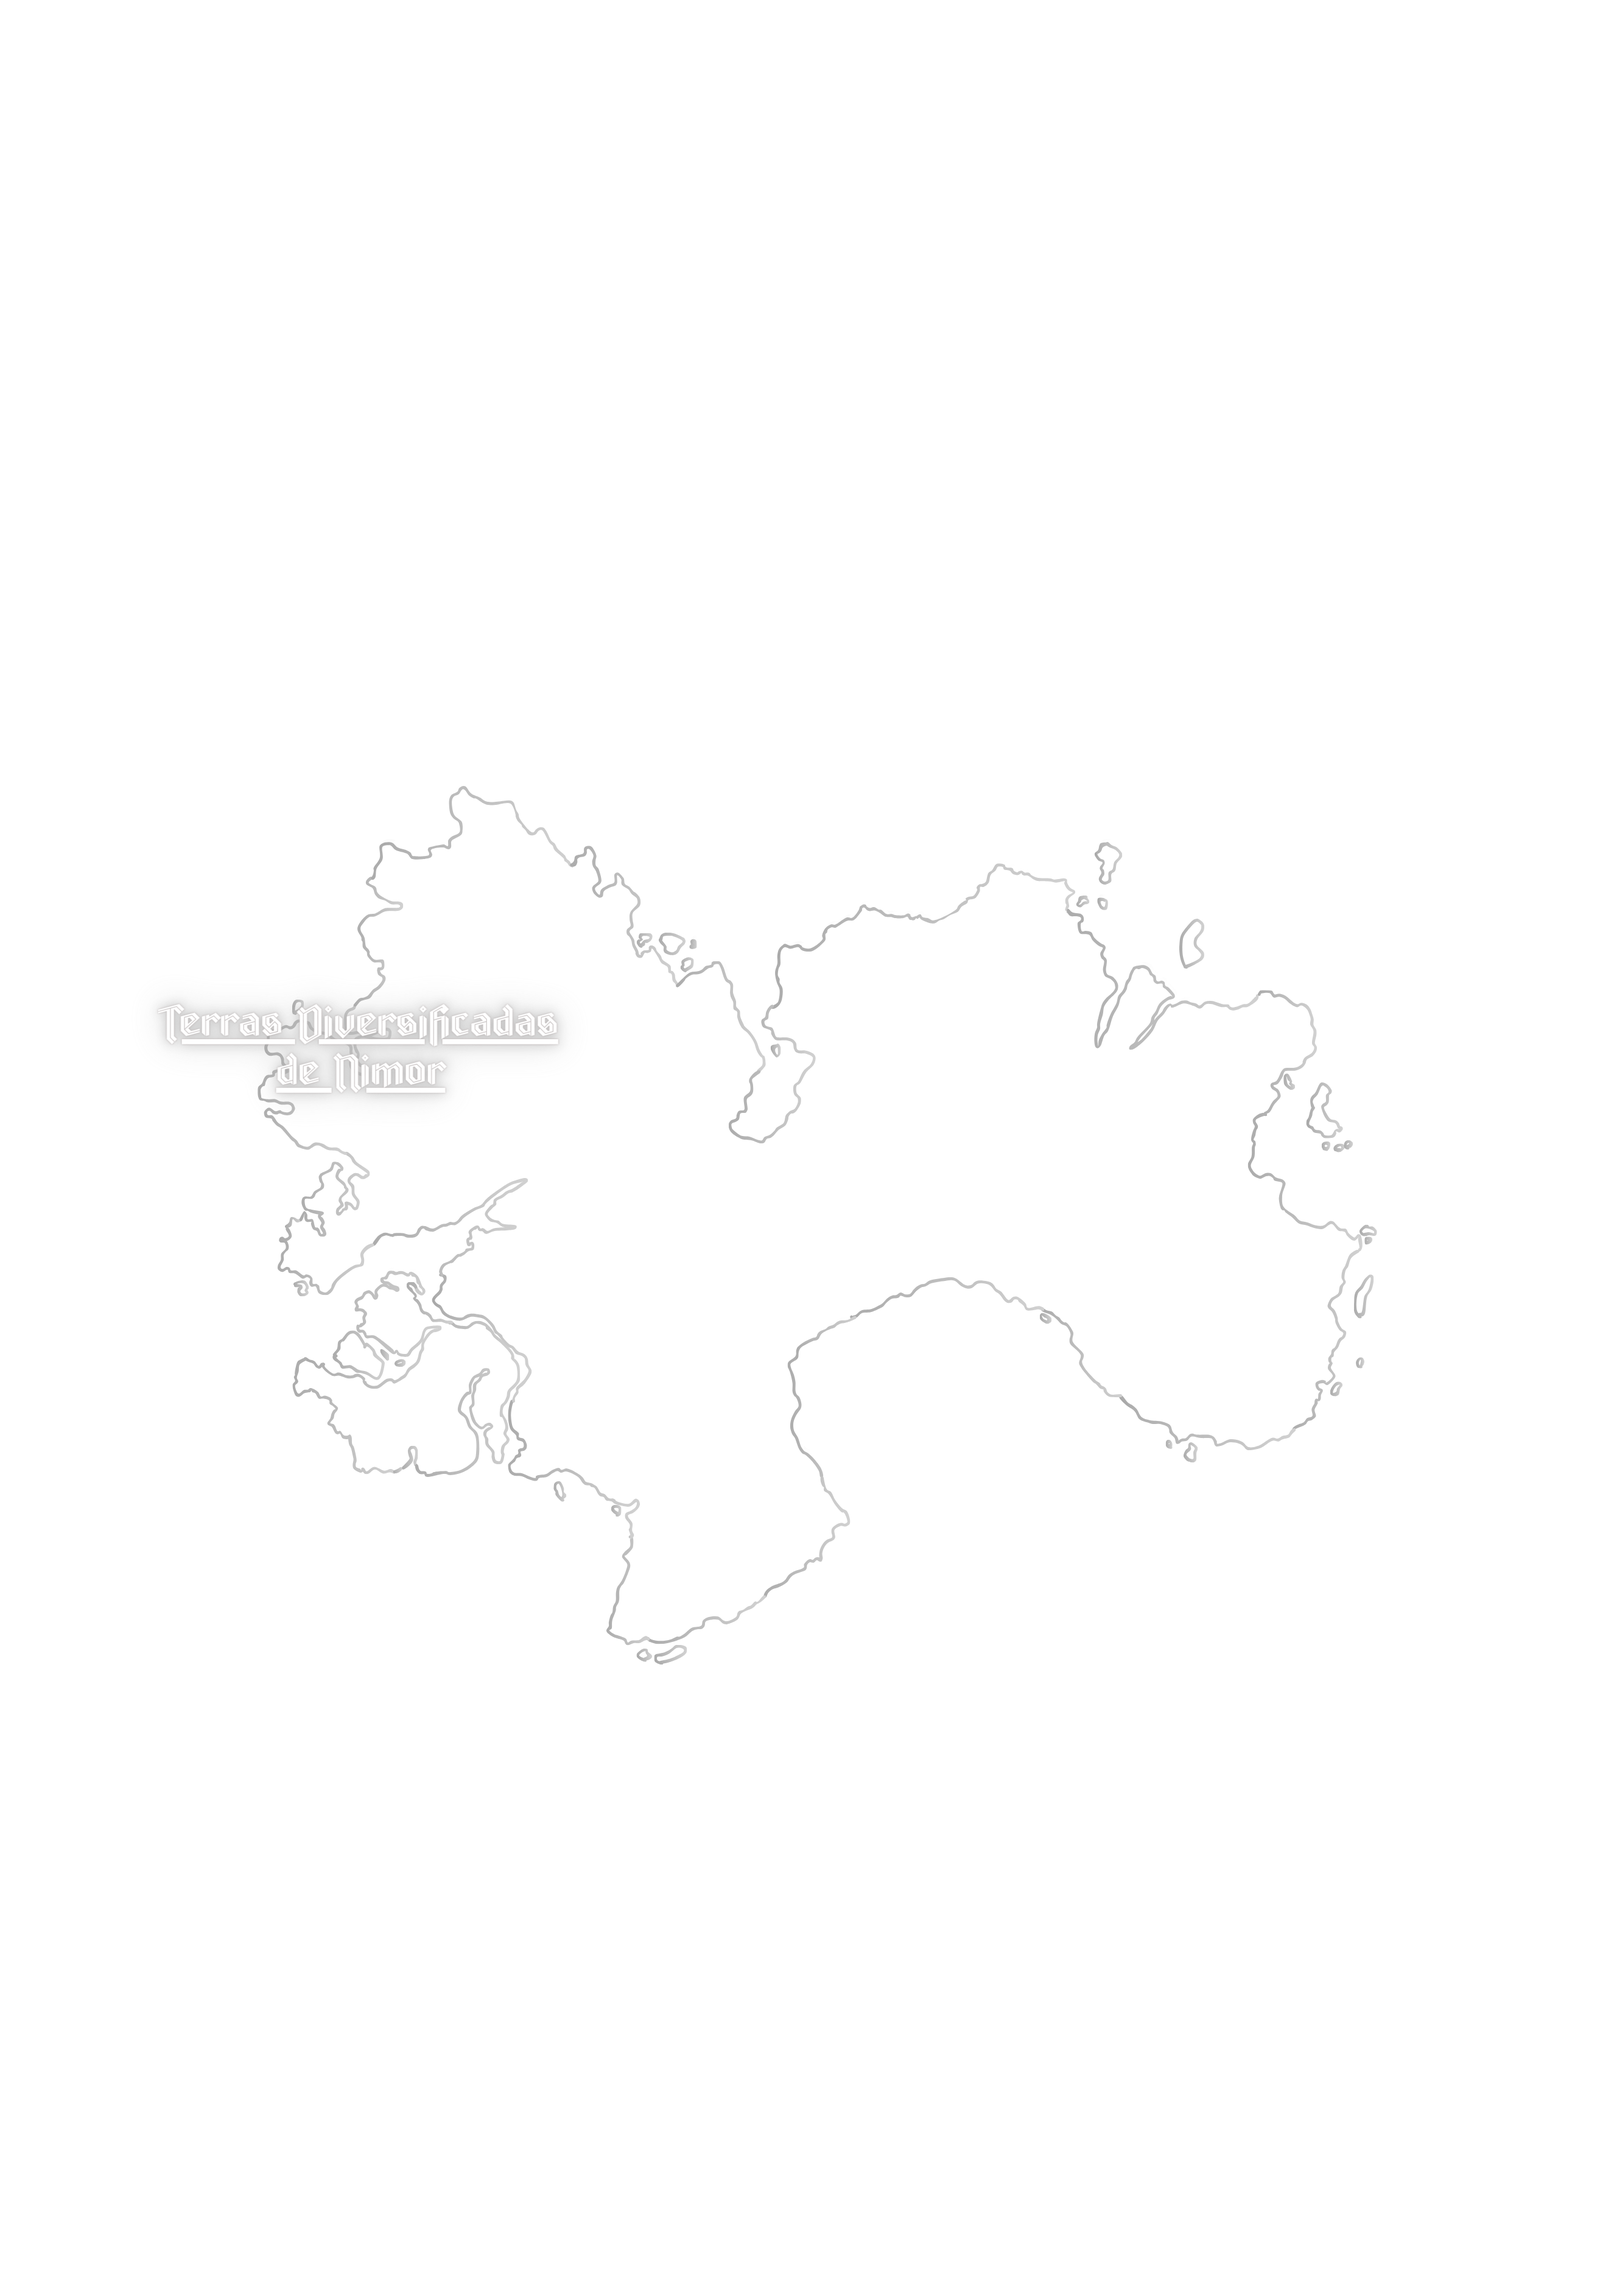
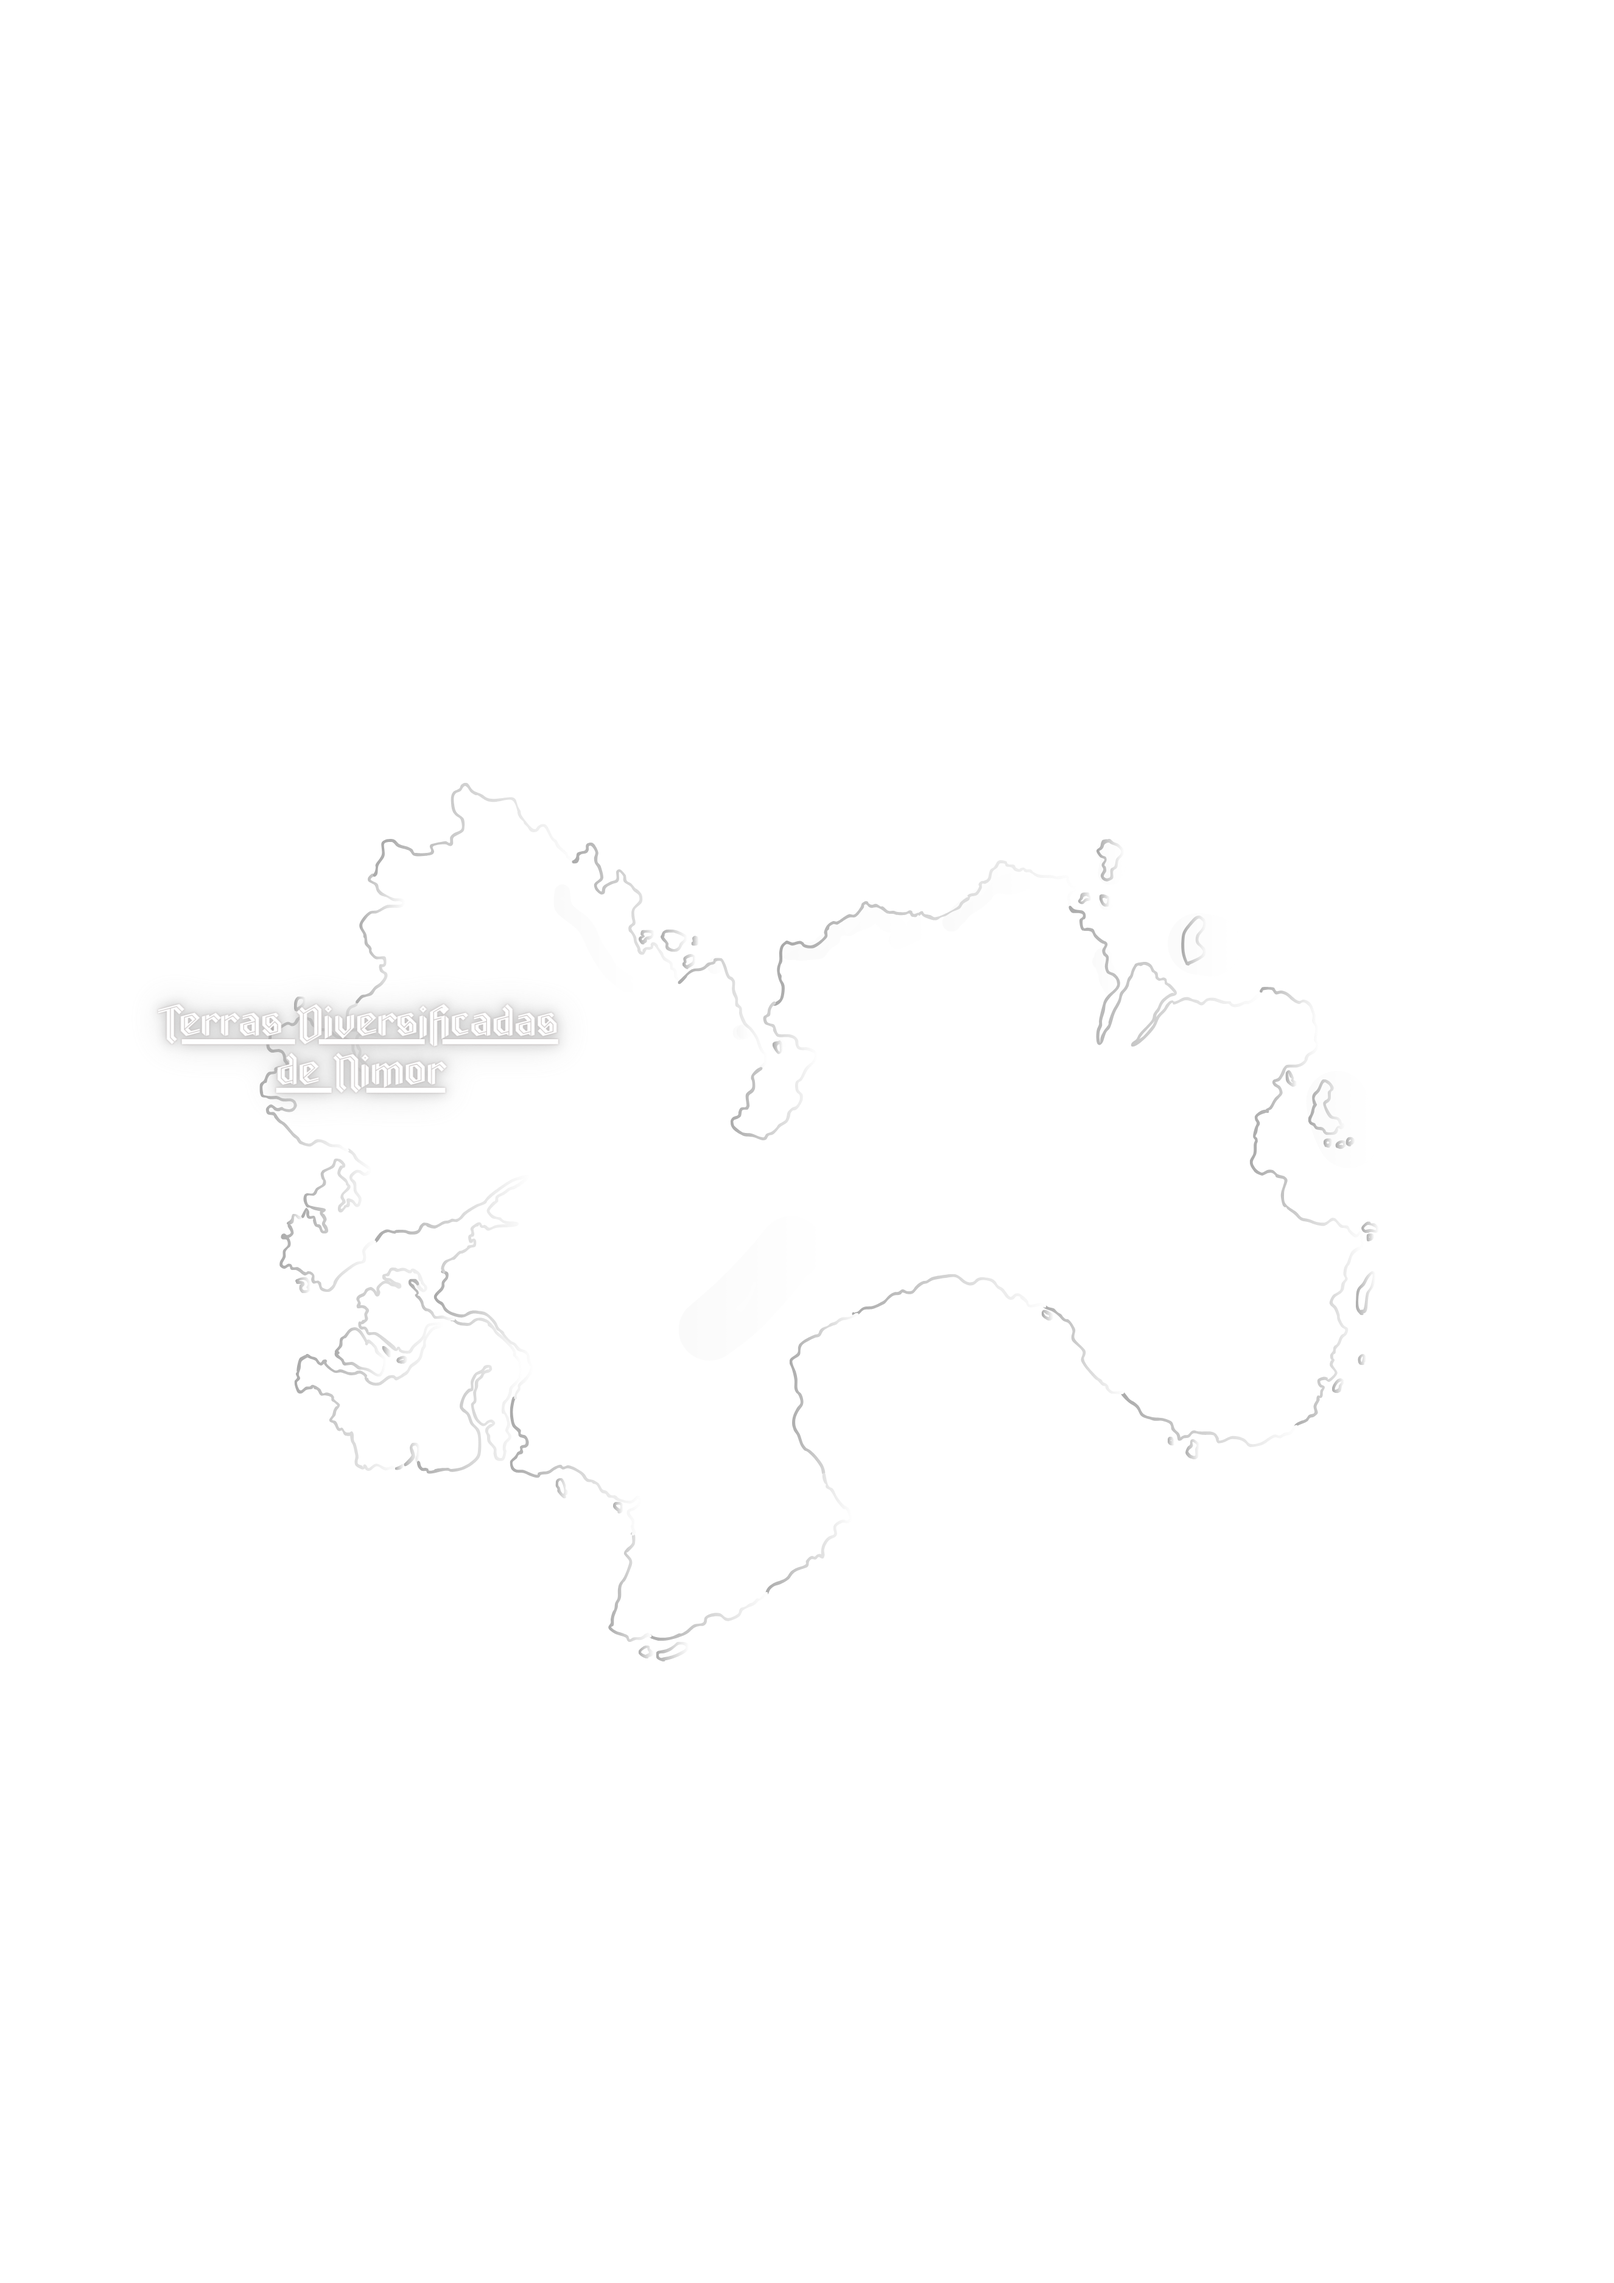
Correções: Corrigindo nome de png

diff --git a/script.js b/script.js
@@ -1,7 +1,6 @@
 document.addEventListener('DOMContentLoaded', function () {
     var pois = document.querySelectorAll('.poi');
     var cards = document.querySelectorAll('.card');
-    var overlays = document.querySelectorAll('.hidden-map-overlay');
 
     pois.forEach(function(poi) {
         poi.addEventListener('click', function(event) {
@@ -33,34 +32,6 @@ document.addEventListener('DOMContentLoaded', function () {
     document.addEventListener('click', function(event) {
         cards.forEach(function(card) {
             card.style.display = 'none';
-        });
-    });
-
-    // Adiciona funcionalidade de hover para as imagens de overlay
-    overlays.forEach(function(overlay) {
-        overlay.addEventListener('mouseenter', function(event) {
-            var rect = overlay.getBoundingClientRect();
-            var x = event.clientX - rect.left;
-            var y = event.clientY - rect.top;
-            var canvas = document.createElement('canvas');
-            var ctx = canvas.getContext('2d');
-            var img = new Image();
-            img.src = overlay.src;
-            img.onload = function() {
-                canvas.width = img.width;
-                canvas.height = img.height;
-                ctx.drawImage(img, 0, 0);
-                var pixelData = ctx.getImageData(x, y, 1, 1).data;
-                if (pixelData[3] > 0) { // Verifica a opacidade do pixel
-                    overlay.style.opacity = '1';
-                    overlay.style.pointerEvents = 'auto';
-                }
-            };
-        });
-
-        overlay.addEventListener('mouseleave', function() {
-            this.style.opacity = '0';
-            this.style.pointerEvents = 'none';
         });
     });
 });

diff --git a/styles.css b/styles.css
@@ -11,23 +11,6 @@ body, html {
     height: 1875px; /* Altura será ajustada automaticamente */
     overflow: hidden; /* Adicionamos overflow: auto para permitir rolagem vertical */
 }
-.hidden-map-overlay {
-    position: absolute;
-    top: 0;
-    left: 0;
-    width: auto;
-    height: 100%;
-    opacity: 0;
-    transition: opacity 0.3s ease;
-    pointer-events: auto;
-    z-index: 2;
-}
-
-.hidden-map-overlay:hover {
-    opacity: 1;
-    pointer-events: auto;
-}
-
 
 #map {
 	z-index: 1; /* Defina um valor de z-index menor para o mapa */
